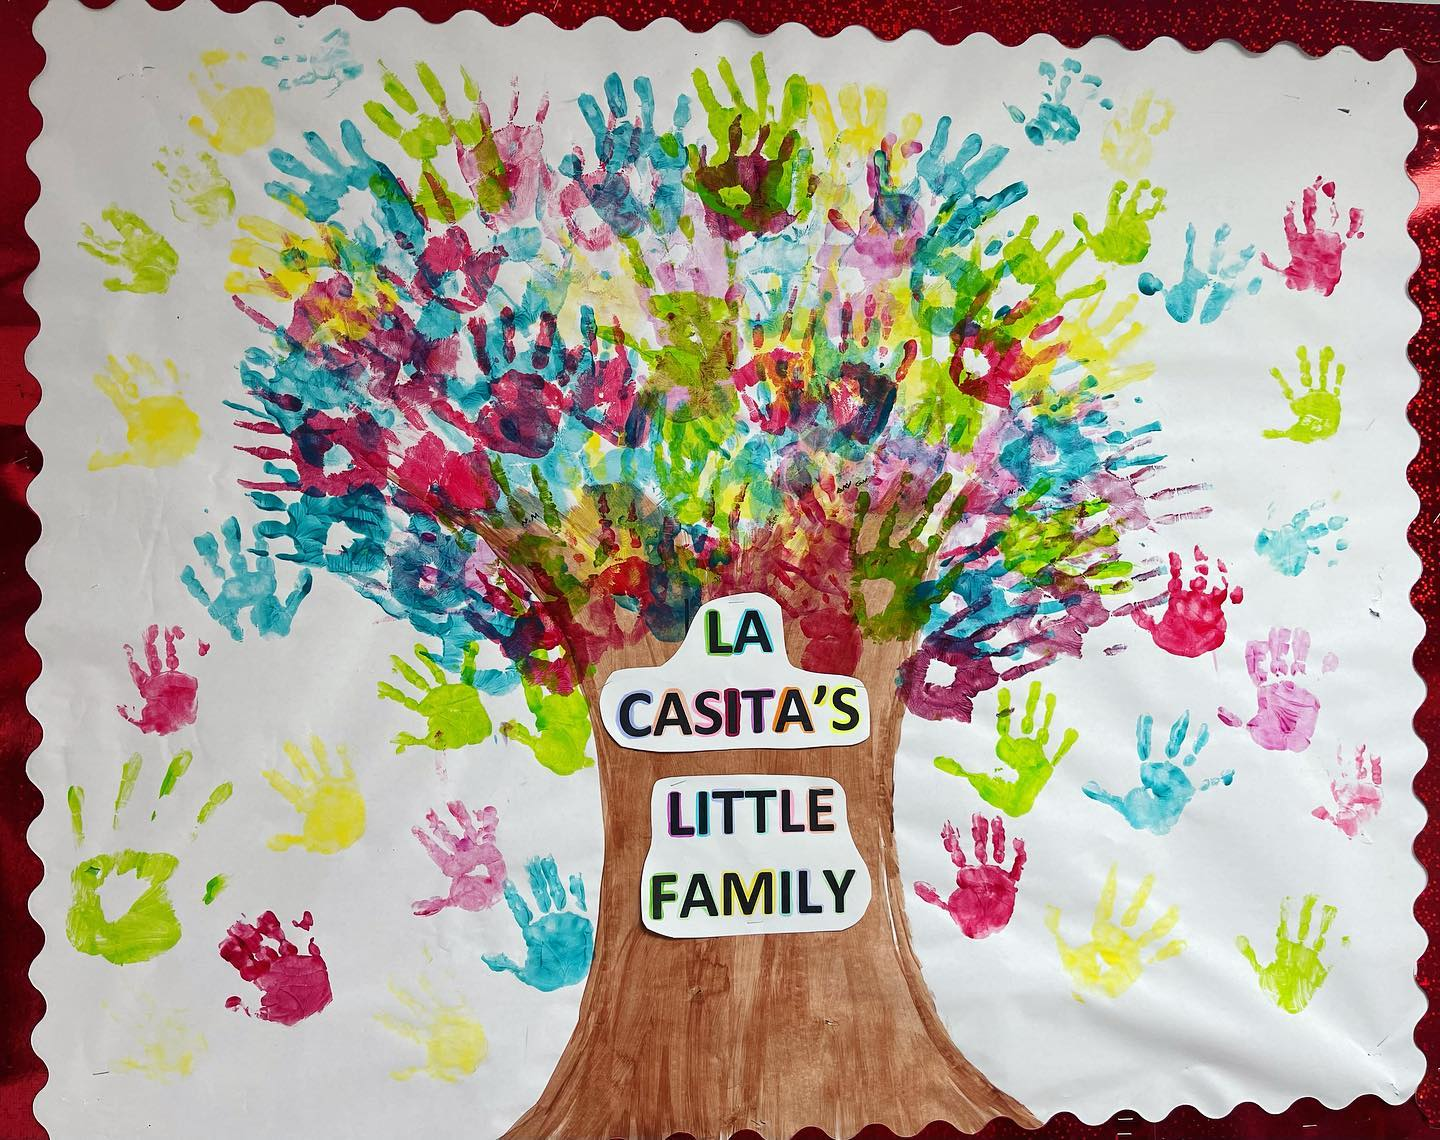
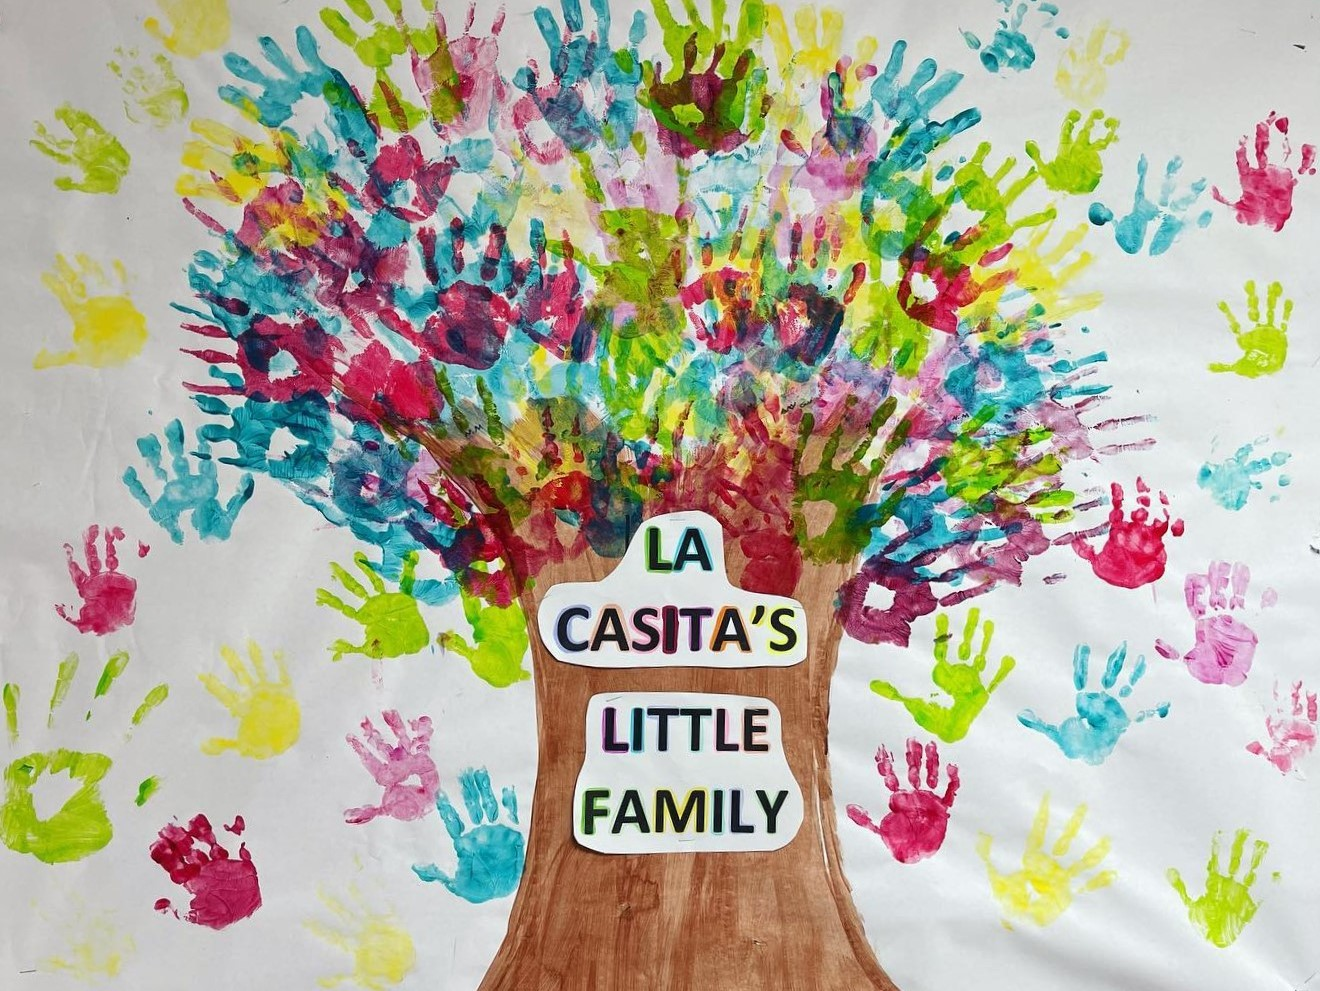
picture on program page

diff --git a/assets/css/main.css b/assets/css/main.css
@@ -3001,9 +3001,10 @@ padding: 15px;
   border-radius: 8px;
   padding: 60px;}
 
-  #studentsByVan{
+  #studentsByVan, #familyTree{
     width: 100%;
     padding: 0 100px 100px 100px;
+    border-radius: 5px;
   }
   .pictureSection, .pictureNarratives {
     display: flex;

diff --git a/programs.html b/programs.html
@@ -82,7 +82,7 @@
           
           </ul>
           
-          <img id= 'studentsByVan' src="images/studentsByVan.jpg">
+          <img id= 'familyTree' src="images/LaCasitaFamilyTree.jpg">
         </div>
         
     </section>
